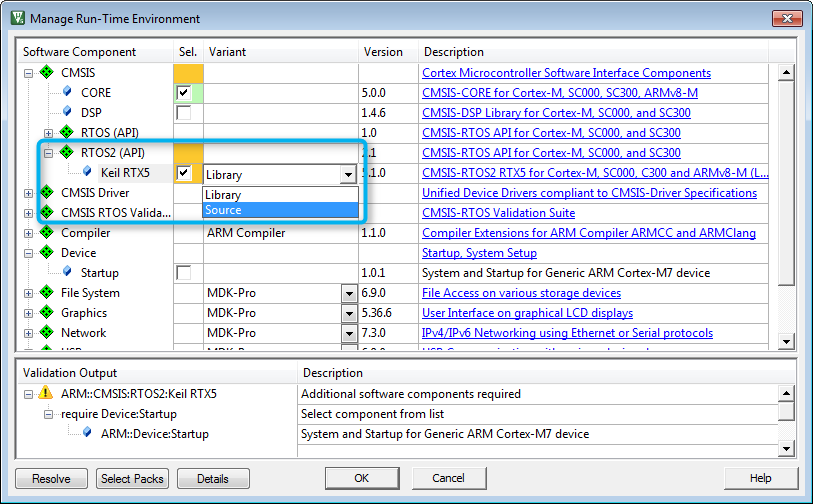
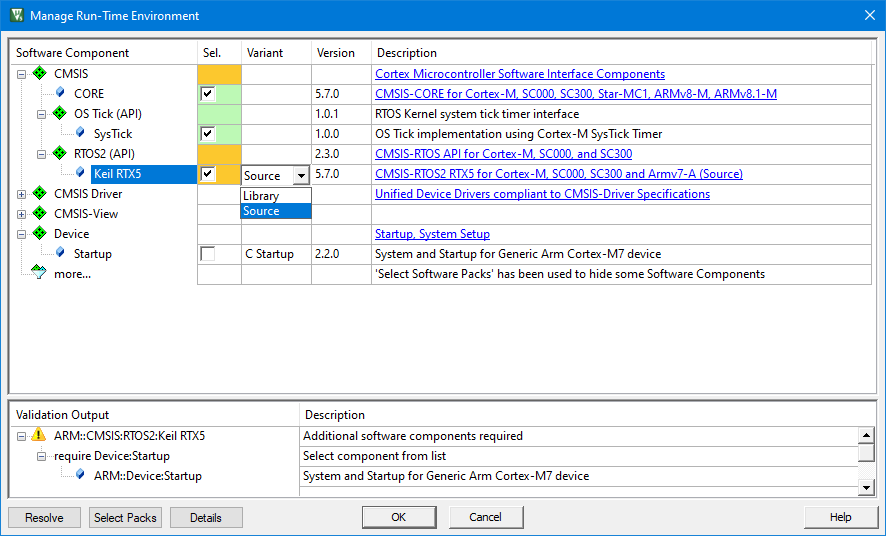
Minor update in documentation

diff --git a/Documentation/Doxygen/src/project.md b/Documentation/Doxygen/src/project.md
@@ -8,7 +8,7 @@ FuSa RTX5 installation and project setup are explained in \ref fusa_rtx_installa
 The steps to create a microcontroller application using RTX5 are:
 
  - Create a new project and select a microcontroller device.
- - In the Manage Run-Time Environment window, select **CMSIS\::CORE** and **CMSIS\::RTOS2 (API)\::Keil RTX5**. You can
+ - In the Manage Run-Time Environment window, select **CMSIS\::CORE**, **CMSIS\::OS Tick (API)\::SysTick** and **CMSIS\::RTOS2 (API)\::Keil RTX5**. You can
    choose to either add RTX as a library (Variant: **Library**) or to add the full source code (Variant: **Source**) - required if using the [Event Recorder](https://arm-software.github.io/CMSIS-View/latest/evr.html):
 
 ![Run-Time Environment for RTX5 in Keil uVision](./images/manage_rte_output.png)
